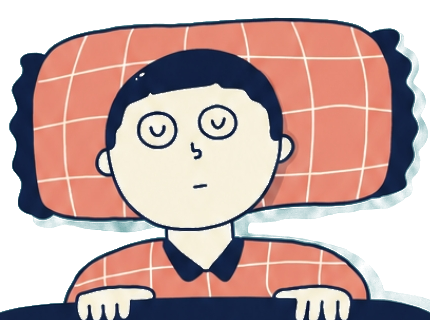
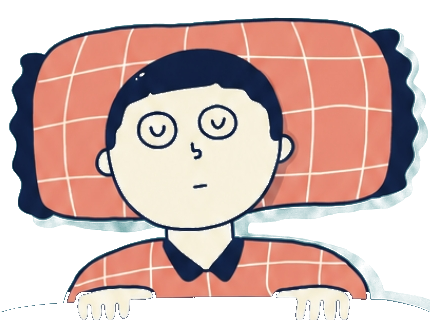
Have the character hold the top edge of the phone instead of overlapping its frame
The navy phone strip is removed from the character image, and the character
now sits with its hands on the phone's top bezel on both phone and desktop.

Changed region(s): [[0.0, 0.9062, 1.0, 1.0]]

diff --git a/client/src/index.css b/client/src/index.css
@@ -472,7 +472,7 @@ button:not(:disabled),a[href],input:not(:disabled),textarea:not(:disabled),selec
 .cat-frame .sleepy-eyes { display:block; left:0; top:0; width:100% !important; height:100% !important; max-width:none; margin:0; transform:none; }
 
 /* Hero: the sleeping character sits on the phone, and each service shows a small preview beside its details. */
-.phone-only-scene .hero-character { position:absolute; z-index:3; left:50%; top:-120px; width:min(300px,80%); transform:translateX(-50%); }
+.phone-only-scene .hero-character { position:absolute; z-index:3; left:50%; top:-160px; width:min(300px,80%); transform:translateX(-50%); }
 .phone-only-scene .hero-character img { display:block; width:100%; height:auto; }
 .phone-only-scene .hero-character img { pointer-events:none; z-index:0; }
 .phone-only-scene .hero-character .sleepy-eyes { z-index:1; }
